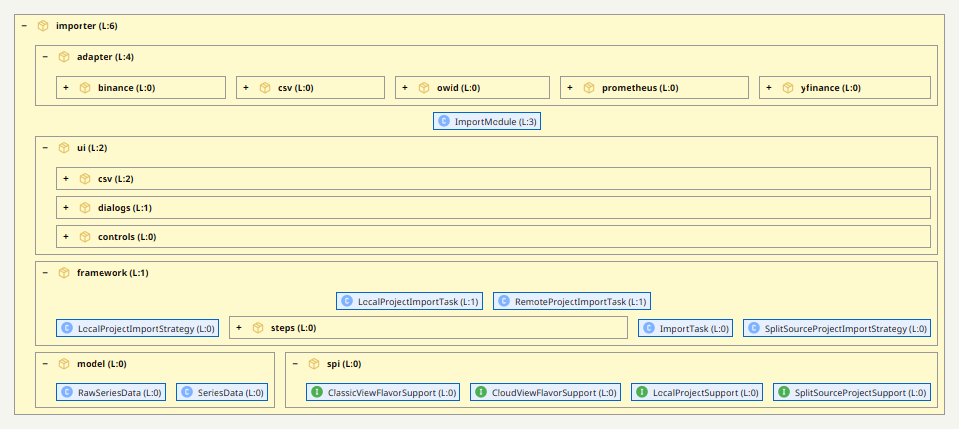
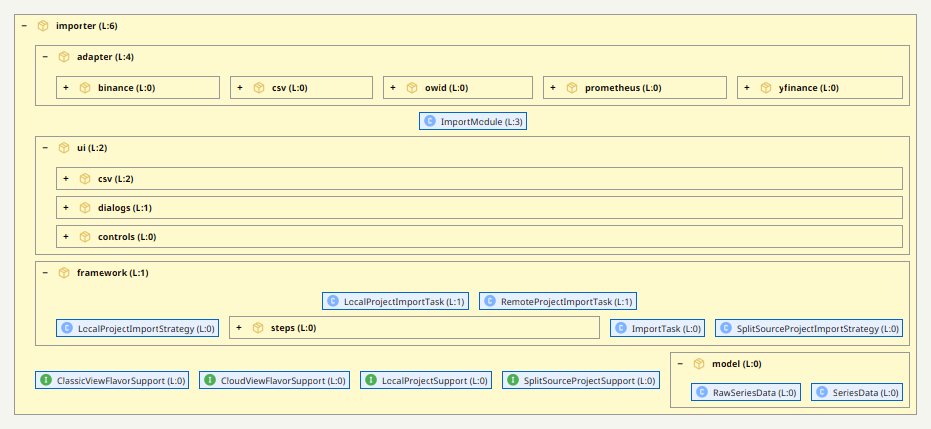
docs: importer has no outer edge of its own
Also what S202 1.4.0 does not count, and that LayerArchitectureTest does.

diff --git a/docs/architecture/workbench-components.de.md b/docs/architecture/workbench-components.de.md
@@ -7,7 +7,7 @@ sie nach außen gibt und wie sie innen aufgebaut ist. Es richtet sich an alle, d
 Workbench arbeiten. Für den Collector gibt es [ein eigenes Dokument](collector-components.de.md).
 
 Die Bilder stammen aus [S202](https://github.com/Weigend/S202) 1.4.0, das die Abhängigkeiten aus
-dem Bytecode liest. Stand: Workbench 7.5.0-SNAPSHOT, Commit `9cc6fd5`, 24.11.2026.
+dem Bytecode liest. Stand: Workbench 7.6.0-SNAPSHOT, Commit `78d0c96`, 24.11.2026.
 
 - [So sind die Bilder zu lesen](#so-sind-die-bilder-zu-lesen)
 - [Die Regeln](#die-regeln)
@@ -46,7 +46,8 @@ Die Pakete direkt unter `io.softwareecg.awb` sind die Teile der Workbench.
    - `api`: wird von anderen aufgerufen und von der eigenen Komponente implementiert,
    - `spi`: wird von anderen implementiert und deshalb auch von außen importiert.
 
-   Alles andere ist innen. Die inneren Pakete heißen nach dem, was sie tun.
+   Alles andere ist innen. Die inneren Pakete heißen nach dem, was sie tun. `api` und `spi` kennen
+   das Innere nicht, auch nicht als Typ eines Parameters oder Rückgabewerts.
 2. **Bibliotheken** (`uitoolkit`, `timeseries`, `runtime`, `infrastructure`) haben keine
    Außenkante: Alle ihre öffentlichen Klassen dürfen benutzt werden. Sie kennen keine Komponente.
 3. **Zyklen** gibt es nicht, weder zwischen den Top-Paketen noch zwischen den Teilen irgendeines
@@ -56,7 +57,7 @@ Das prüft jeder Build:
 
 | Test | Was er prüft |
 | --- | --- |
-| `LayerArchitectureTest` | Außenkanten, Schichten und Zyklen im Code, mit ArchUnit |
+| `LayerArchitectureTest` | Außenkanten, Schichten und Zyklen im Code, mit ArchUnit; auch, dass `api` und `spi` nichts Inneres nach außen geben |
 | `ViewArchitectureTest` | dieselben Außenkanten in FXML und CSS; dort stehen Klassen und Dateien als Text, weder S202 noch ArchUnit sehen sie |
 
 ## Level 0: alle Top-Pakete
@@ -213,9 +214,8 @@ darüber sehen andere, ob für ein Projekt gesammelt wird.
 **Aufgabe:** Das Menü **Import**: liest fremde Daten in das Repository eines Projekts, oder nur ihre
 Beschreibung, wenn die Werte auf ihrem Server bleiben.
 
-**Außenkante:** `spi` mit den Verträgen für eigene Importer (`LocalProjectSupport`,
-`SplitSourceProjectSupport` und die Merkmale für die Sichten). Die Komponente implementiert
-außerdem `projectcontext.spi.ProjectImporter` und `AliasMappingProvider`, und für entfernte
+**Außenkante:** keine eigene. Ein neuer Importer ist ein Paket in `adapter`. Die Komponente
+implementiert `projectcontext.spi.ProjectImporter` und `AliasMappingProvider`, und für entfernte
 Projekte `query.spi.RemoteSeriesSource`.
 
 [![Scope importer](../images/components/importer.png)](../images/components/importer.png)
@@ -223,11 +223,10 @@ Projekte `query.spi.RemoteSeriesSource`.
 | Paket | Inhalt |
 | --- | --- |
 | `adapter` | die Importer: Collector-Logs (`csv`), Prometheus, OWID, Binance, Yahoo Finance |
-| (direkt) | `ImportModule`, die Basis jedes Importers |
+| (direkt) | `ImportModule`, die Basis jedes Importers, und die Interfaces, die sagen, was ein Importer unterstützt: `LocalProjectSupport`, `SplitSourceProjectSupport` und die Merkmale für die Sichten |
 | `ui` | die Dialoge für Dateien und für Server |
 | `framework` | der Ablauf eines Imports: Strategie, Task und die Schritte lesen, filtern, abbilden, schreiben; jeder Import hat eine eigene Strategie |
 | `model` | eine Serie vor und nach der Abbildung auf die Dimensionen |
-| `spi` | siehe Außenkante |
 
 ## query
 
@@ -451,6 +450,11 @@ Bericht vom 24.11.2026 für den oben genannten Stand:
 | Klassenzyklen, alle innerhalb eines Pakets | 4 |
 | Abhängigkeiten gegen die Schichten, alle aus diesen Klassenzyklen | 5 |
 
+S202 1.4.0 zählt Aufrufe, Instanziierung und Vererbung. Eine Klasse, die nur der Typ eines Feldes,
+Parameters oder Rückgabewerts ist, zählt nicht, und Code in verschachtelten Klassen wird nicht
+gelesen. Für Außenkanten und Zyklen ist deshalb `LayerArchitectureTest` die strengere Prüfung: Er
+zählt beides.
+
 Die vier Klassenzyklen sind bekannt und bleiben:
 
 - **`Plan` und `ConfigCompiler`** in `datasource.adapter`, je einmal für Prometheus, SSH und Windows:
@@ -467,7 +471,7 @@ Die vier Klassenzyklen sind bekannt und bleiben:
    mvn -o -pl workbench -am clean package -DskipTests
    ```
 
-2. In S202 `workbench/target/workbench-7.5.0-SNAPSHOT.jar` öffnen. Die generierten Klassen der
+2. In S202 `workbench/target/workbench-7.6.0-SNAPSHOT.jar` öffnen. Die generierten Klassen der
    Dependency Injection (`*.AwbModule`, `*$DI`) müssen in `excluded-prefixes.txt` von S202
    ausgeschlossen sein.
 3. **Depth** auf 0 setzen, **Refresh**, dann **File → Export Image…** (Strg+E): `level0.png`.

diff --git a/docs/architecture/workbench-components.md b/docs/architecture/workbench-components.md
@@ -7,7 +7,7 @@ offers to the others and how it is built inside. It is meant for everybody who w
 of the Workbench. For the Collector there is [a document of its own](collector-components.md).
 
 The pictures are from [S202](https://github.com/Weigend/S202) 1.4.0, which reads the dependencies
-from the bytecode. State: Workbench 7.5.0-SNAPSHOT, commit `9cc6fd5`, 2026-11-24.
+from the bytecode. State: Workbench 7.6.0-SNAPSHOT, commit `78d0c96`, 2026-11-24.
 
 - [How to read the pictures](#how-to-read-the-pictures)
 - [The rules](#the-rules)
@@ -46,7 +46,8 @@ The packages directly below `io.softwareecg.awb` are the parts of the Workbench.
    - `api`: called by others and implemented by the component itself,
    - `spi`: implemented by others, and therefore imported from outside as well.
 
-   Everything else is inside. The inner packages are named by what they do.
+   Everything else is inside. The inner packages are named by what they do. `api` and `spi` do not
+   know the inside, not even as the type of a parameter or of a returned value.
 2. **Libraries** (`uitoolkit`, `timeseries`, `runtime`, `infrastructure`) have no outer edge: all
    their public classes may be used. They do not know any component.
 3. **Cycles** do not exist, neither between the top packages nor between the parts of any package.
@@ -56,7 +57,7 @@ Every build checks this:
 
 | Test | What it checks |
 | --- | --- |
-| `LayerArchitectureTest` | outer edges, layers and cycles in the code, with ArchUnit |
+| `LayerArchitectureTest` | outer edges, layers and cycles in the code, with ArchUnit; also that `api` and `spi` do not expose the inside |
 | `ViewArchitectureTest` | the same outer edges in FXML and CSS; classes and files stand there as text, which neither S202 nor ArchUnit sees |
 
 ## Level 0: all top packages
@@ -212,8 +213,7 @@ whether data is being collected for a project.
 **Task:** The menu **Import**: reads foreign data into the repository of a project, or only their
 description if the values stay on their server.
 
-**Outer edge:** `spi` with the contracts for importers of one's own (`LocalProjectSupport`,
-`SplitSourceProjectSupport` and the markers for the views). The component also implements
+**Outer edge:** none of its own. A new importer is a package in `adapter`. The component implements
 `projectcontext.spi.ProjectImporter` and `AliasMappingProvider`, and for remote projects
 `query.spi.RemoteSeriesSource`.
 
@@ -222,11 +222,10 @@ description if the values stay on their server.
 | Package | Content |
 | --- | --- |
 | `adapter` | the importers: Collector logs (`csv`), Prometheus, OWID, Binance, Yahoo Finance |
-| (direct) | `ImportModule`, the base of every importer |
+| (direct) | `ImportModule`, the base of every importer, and the interfaces that say what an importer supports: `LocalProjectSupport`, `SplitSourceProjectSupport` and the markers for the views |
 | `ui` | the dialogs for files and for servers |
 | `framework` | how an import runs: strategy, task and the steps read, filter, map, write; every import has a strategy of its own |
 | `model` | a series before and after it was mapped to the dimensions |
-| `spi` | see outer edge |
 
 ## query
 
@@ -448,6 +447,10 @@ Report of 2026-11-24 for the state named above:
 | class cycles, all inside one package | 4 |
 | dependencies against the layers, all of them part of these class cycles | 5 |
 
+S202 1.4.0 counts calls, instantiation and inheritance. A class that is only the type of a field, a
+parameter or a returned value is not counted, and code in nested classes is not read. For outer
+edges and cycles `LayerArchitectureTest` is therefore the stricter check: it counts both.
+
 The four class cycles are known and stay:
 
 - **`Plan` and `ConfigCompiler`** in `datasource.adapter`, once each for Prometheus, SSH and
@@ -464,7 +467,7 @@ The four class cycles are known and stay:
    mvn -o -pl workbench -am clean package -DskipTests
    ```
 
-2. Open `workbench/target/workbench-7.5.0-SNAPSHOT.jar` in S202. The generated classes of the
+2. Open `workbench/target/workbench-7.6.0-SNAPSHOT.jar` in S202. The generated classes of the
    dependency injection (`*.AwbModule`, `*$DI`) have to be excluded in `excluded-prefixes.txt` of
    S202.
 3. Set **Depth** to 0, **Refresh**, then **File → Export Image…** (Ctrl+E): `level0.png`.

diff --git a/docs/architecture/single-repository.de.md b/docs/architecture/single-repository.de.md
@@ -117,7 +117,7 @@ Eine Source implementiert die bestehenden Collector-Verträge und registriert ih
 
 ### Workbench-Importer
 
-Importer sind Teil der Workbench. Neue Importer werden in einem eigenen Paket unter `io.softwareecg.awb.importer.adapter` ergänzt, implementieren die Verträge in `importer.spi` und werden im selben Reactor getestet. Damit entfallen SDK-Versionierung, Archetype, separates Deployment und binäre Kompatibilitätsversprechen zwischen eng gekoppelten Komponenten.
+Importer sind Teil der Workbench. Neue Importer werden in einem eigenen Paket unter `io.softwareecg.awb.importer.adapter` ergänzt, erweitern `ImportModule`, implementieren, was sie unterstützen (`LocalProjectSupport`, `SplitSourceProjectSupport`), und werden im selben Reactor getestet. Damit entfallen SDK-Versionierung, Archetype, separates Deployment und binäre Kompatibilitätsversprechen zwischen eng gekoppelten Komponenten.
 
 ## Verifikation der Migration
 

diff --git a/docs/architecture/single-repository.md b/docs/architecture/single-repository.md
@@ -115,7 +115,7 @@ A source implements the existing collector contracts and registers its implement
 
 ### Workbench importer
 
-Importers are part of the workbench. New importers are added in a package of their own below `io.softwareecg.awb.importer.adapter`, implement the contracts in `importer.spi` and are tested in the same reactor. This removes SDK versioning, the archetype, separate deployment and binary compatibility promises between tightly coupled components.
+Importers are part of the workbench. New importers are added in a package of their own below `io.softwareecg.awb.importer.adapter`, extend `ImportModule`, implement what they support (`LocalProjectSupport`, `SplitSourceProjectSupport`) and are tested in the same reactor. This removes SDK versioning, the archetype, separate deployment and binary compatibility promises between tightly coupled components.
 
 ## Verification of the migration
 
